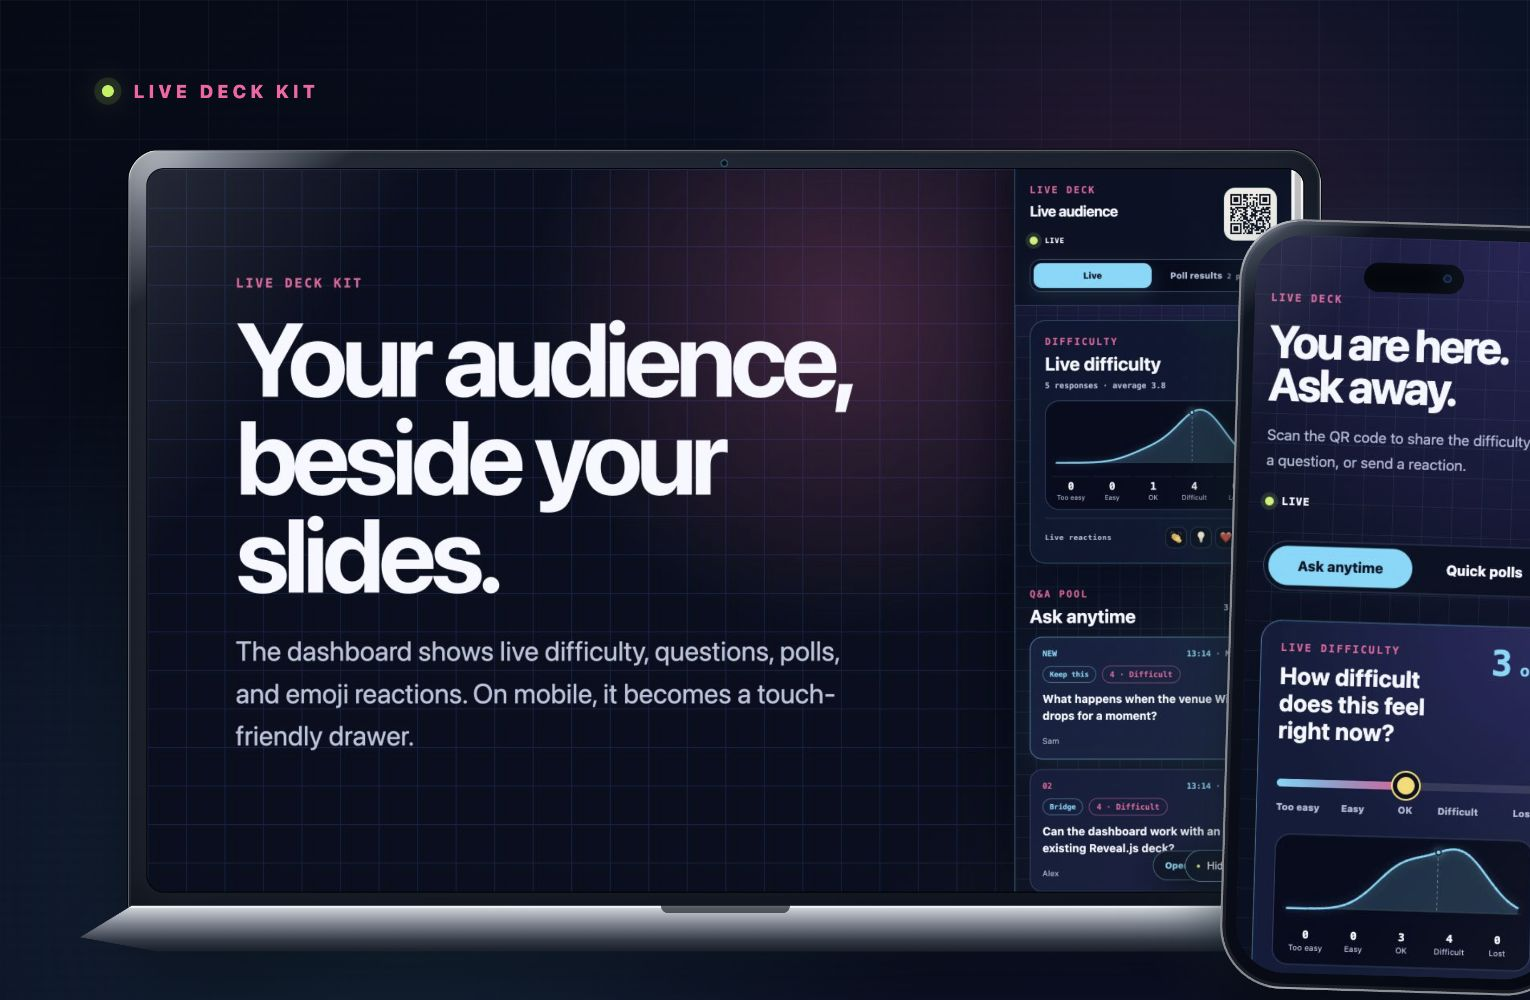
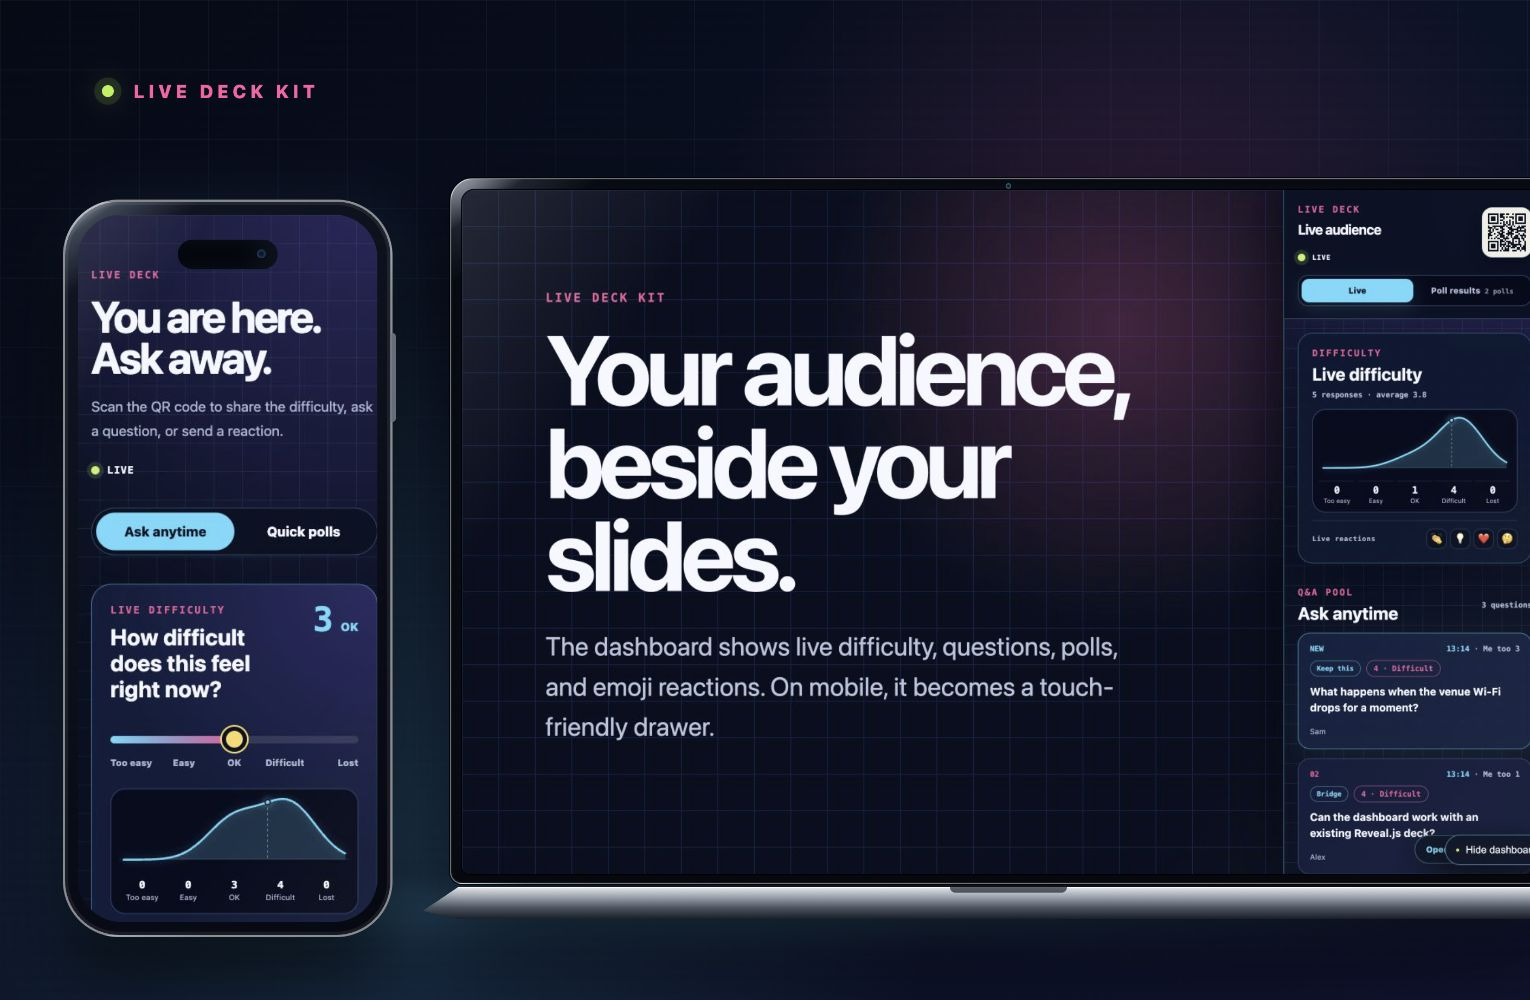
Refine the side-by-side device mockup

diff --git a/docs/hero-mockup.html b/docs/hero-mockup.html
@@ -64,8 +64,8 @@
 
       .floor-glow {
         position: absolute;
-        left: 84px;
-        right: 70px;
+        left: 48px;
+        right: 48px;
         bottom: 60px;
         height: 210px;
         border-radius: 50%;
@@ -76,37 +76,37 @@
 
       .laptop {
         position: absolute;
-        top: 138px;
-        left: 74px;
+        top: 164px;
+        left: 390px;
         z-index: 2;
-        width: 1190px;
-        height: 744px;
-        filter: drop-shadow(0 50px 60px rgba(0, 0, 0, 0.5));
+        width: 1080px;
+        height: 700px;
+        filter: drop-shadow(0 42px 48px rgba(0, 0, 0, 0.52));
       }
 
       .laptop-lid {
         position: absolute;
         top: 0;
-        left: 44px;
-        width: 1100px;
-        height: 714px;
-        padding: 17px;
-        border: 1px solid rgba(255, 255, 255, 0.3);
-        border-radius: 30px 30px 19px 19px;
-        background: linear-gradient(145deg, #dce1e8 0%, #838c9a 4%, #222a38 10%, #111725 100%);
+        left: 25px;
+        width: 1030px;
+        height: 651px;
+        padding: 10px;
+        border: 1px solid rgba(255, 255, 255, 0.42);
+        border-radius: 22px 22px 11px 11px;
+        background: linear-gradient(145deg, #cbd1d9 0%, #7a8491 1.5%, #202734 3.5%, #080d16 7%, #070b13 100%);
         box-shadow:
-          inset 0 0 0 2px rgba(255, 255, 255, 0.05),
-          inset 0 -18px 40px rgba(0, 0, 0, 0.52),
-          0 0 0 1px rgba(0, 0, 0, 0.7);
+          inset 0 0 0 1px rgba(255, 255, 255, 0.05),
+          inset 0 -8px 22px rgba(0, 0, 0, 0.42),
+          0 0 0 1px rgba(0, 0, 0, 0.78);
       }
 
       .laptop-camera {
         position: absolute;
-        top: 8px;
+        top: 4px;
         left: 50%;
         z-index: 2;
-        width: 7px;
-        height: 7px;
+        width: 5px;
+        height: 5px;
         border-radius: 999px;
         background: #050912;
         box-shadow: inset 0 0 2px #3adfff;
@@ -115,10 +115,10 @@
 
       .laptop-screen {
         position: relative;
-        width: 1066px;
-        height: 666px;
+        width: 1010px;
+        height: 631px;
         overflow: hidden;
-        border-radius: 15px;
+        border-radius: 12px 12px 7px 7px;
         background: #050914;
         box-shadow: 0 0 0 1px rgba(0, 0, 0, 0.9);
       }
@@ -142,13 +142,13 @@
 
       .laptop-base {
         position: absolute;
-        bottom: 0;
+        bottom: 12px;
         left: 0;
-        width: 1190px;
-        height: 47px;
-        clip-path: polygon(4% 0, 96% 0, 100% 62%, 94% 90%, 6% 90%, 0 62%);
-        background: linear-gradient(to bottom, #d8dde4 0%, #7b8490 36%, #313a47 69%, #0c111b 100%);
-        box-shadow: inset 0 2px rgba(255, 255, 255, 0.62);
+        width: 1080px;
+        height: 34px;
+        clip-path: polygon(3% 0, 97% 0, 100% 64%, 97% 86%, 3% 86%, 0 64%);
+        background: linear-gradient(to bottom, #e2e5e9 0%, #949ca7 29%, #4c5663 55%, #171d27 87%, #090d14 100%);
+        box-shadow: inset 0 1px rgba(255, 255, 255, 0.78);
       }
 
       .laptop-base::after {
@@ -156,28 +156,27 @@
         top: 0;
         left: 45%;
         width: 10%;
-        height: 7px;
-        border-radius: 0 0 8px 8px;
-        background: rgba(29, 35, 44, 0.7);
+        height: 5px;
+        border-radius: 0 0 7px 7px;
+        background: rgba(34, 40, 49, 0.72);
         content: "";
       }
 
       .phone {
         position: absolute;
-        top: 205px;
-        right: 74px;
-        z-index: 4;
-        width: 322px;
-        height: 710px;
-        padding: 13px;
+        top: 184px;
+        left: 58px;
+        z-index: 3;
+        width: 304px;
+        height: 680px;
+        padding: 12px;
         border: 2px solid rgba(255, 255, 255, 0.52);
-        border-radius: 58px;
+        border-radius: 52px;
         background: linear-gradient(145deg, #b9c1cc 0%, #3b4554 4%, #0d1421 10%, #050913 100%);
         box-shadow:
           inset 0 0 0 3px rgba(255, 255, 255, 0.07),
-          0 48px 66px rgba(0, 0, 0, 0.58),
-          -20px 5px 50px rgba(53, 220, 255, 0.08);
-        transform: rotate(1.7deg);
+          0 42px 58px rgba(0, 0, 0, 0.58),
+          12px 5px 46px rgba(53, 220, 255, 0.08);
       }
 
       .phone::before {
@@ -193,10 +192,10 @@
 
       .phone-screen {
         position: relative;
-        width: 292px;
-        height: 680px;
+        width: 276px;
+        height: 652px;
         overflow: hidden;
-        border-radius: 45px;
+        border-radius: 40px;
         background: #070d1d;
         box-shadow: inset 0 0 0 1px rgba(255, 255, 255, 0.08);
       }
@@ -235,7 +234,7 @@
 
       .device-label {
         position: absolute;
-        right: 99px;
+        right: 70px;
         bottom: 48px;
         z-index: 6;
         display: flex;
